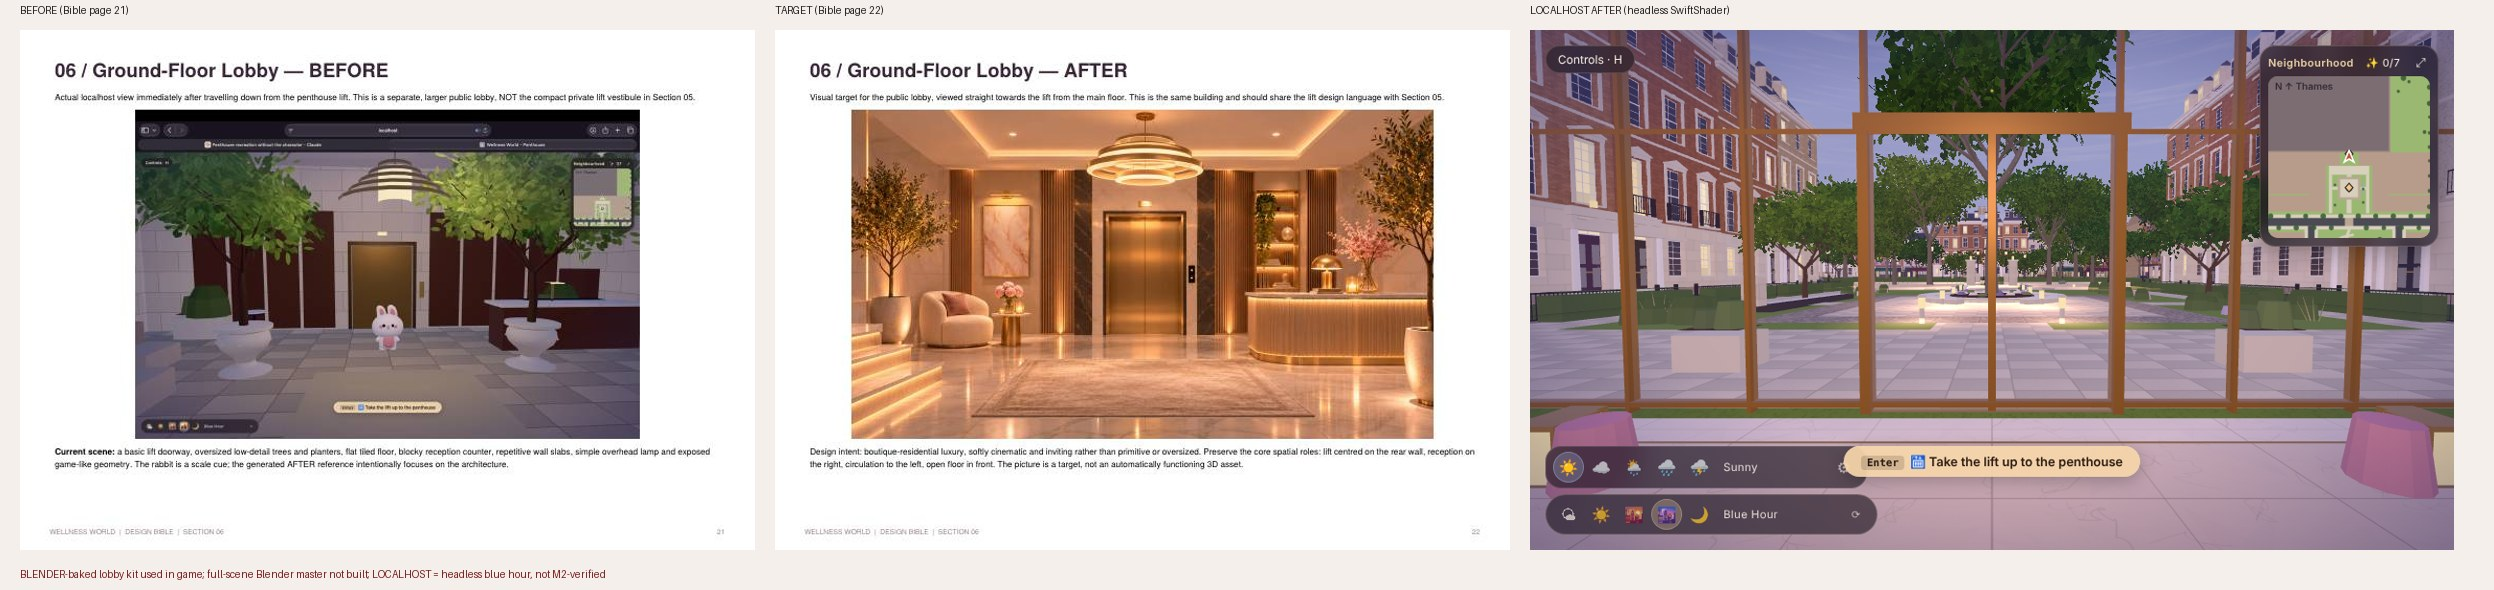
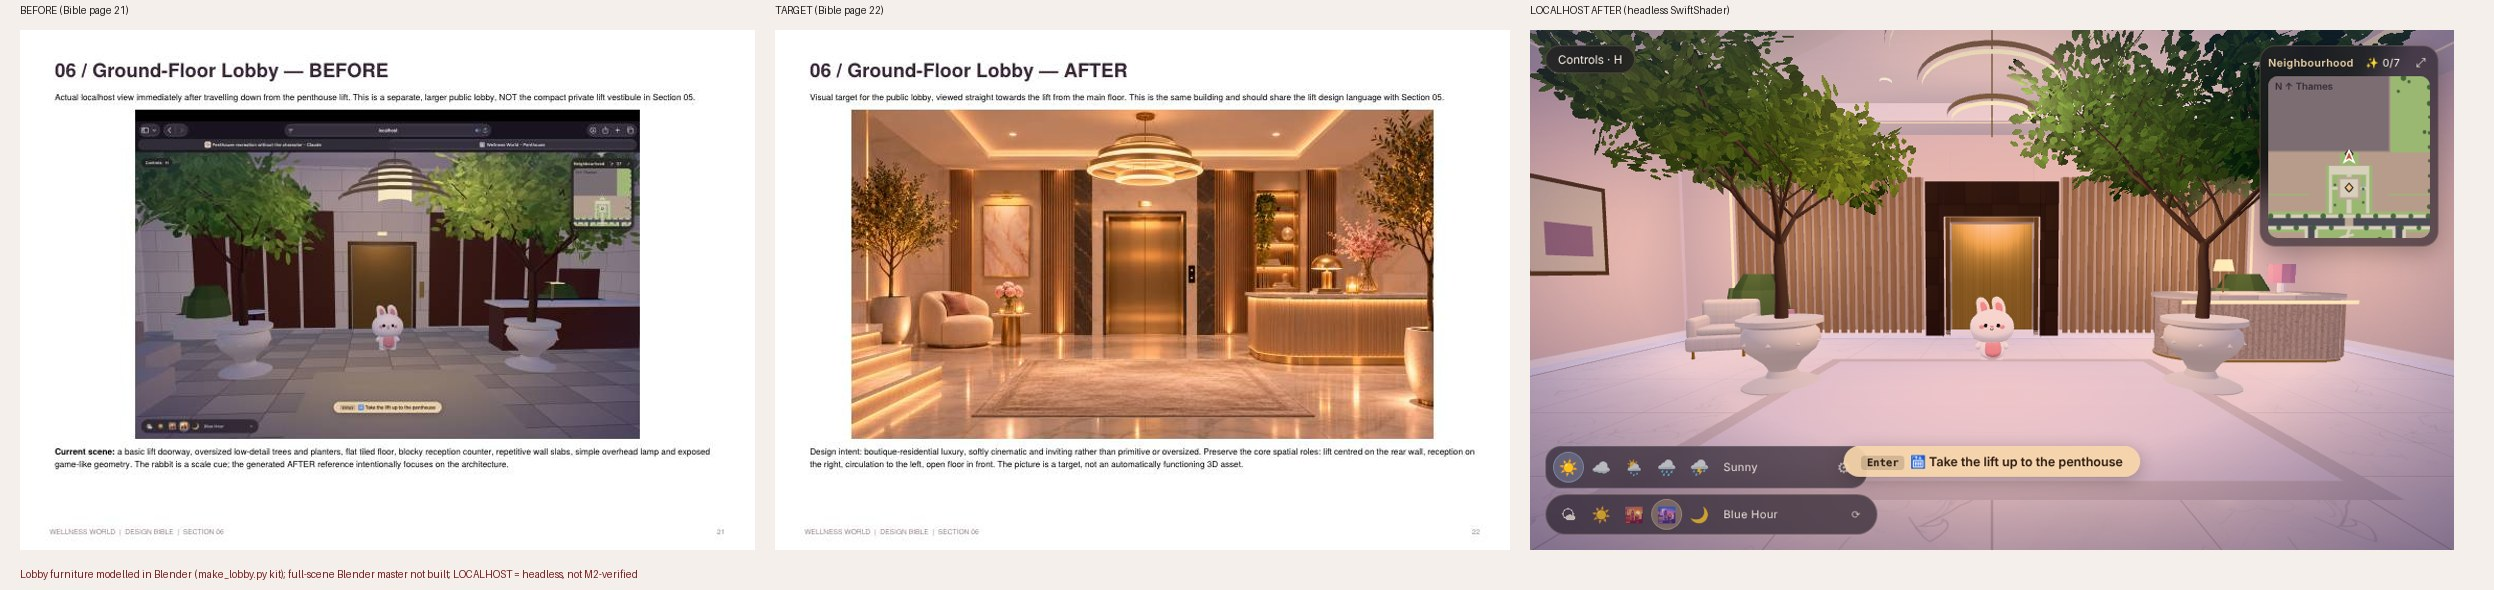
s06: lobby evidence sheet + s06/s07 status
Claude-Session: https://claude.ai/code/session_017ZtboRbFUCo4FCo9fUW3pH

Changed region(s): [[0.5866, 0.0305, 0.988, 0.8542], [0.0, 0.9458, 0.247, 1.0], [0.6175, 0.8237, 0.6484, 0.8542]]

diff --git a/docs/bible/S06_S07_STATUS.md b/docs/bible/S06_S07_STATUS.md
@@ -1,0 +1,10 @@
+# s06 Ground lobby / s07 Entrance (2026-11-12)
+Evidence: `evidence/s06_ground_lobby.jpg` (view toward the lift, pp.21/22), `evidence/s07_entrance.jpg` (view from inside the lobby out to the courtyard, pp.25/26), `evidence/s07_exterior_bluehour.png` (exterior). Headless blue hour; not M2-verified; not claimed approved.
+## s06 present
+Lift centred on the rear wall in a dark marble frame, fluted timber wings, reception desk right, armchair left, urn planters with trees, rug, ring chandelier, framed art.
+## s06 gaps vs p.22
+Glossy reflective marble floor (reflections faint), warm lit shelving niche with brass lamp/flowers, pink peony posies, console with flowers, step-lights, warmer uniform glow (floor reads pale pink), larger layered chandelier.
+## s07 present
+Glazed bronze frontage seen from inside, courtyard framing trees, bollard lanterns, courtyard fountain in the distance.
+## s07 gaps vs p.26
+Blossom tree canopy overhead (Bible shows pink blossom; palette rules ban pink-blossom foliage elsewhere, so decision needed), glowing floor lanterns with hydrangea at the foreground, layered ring chandelier, polished marble reflections, sliding glass door detail.
